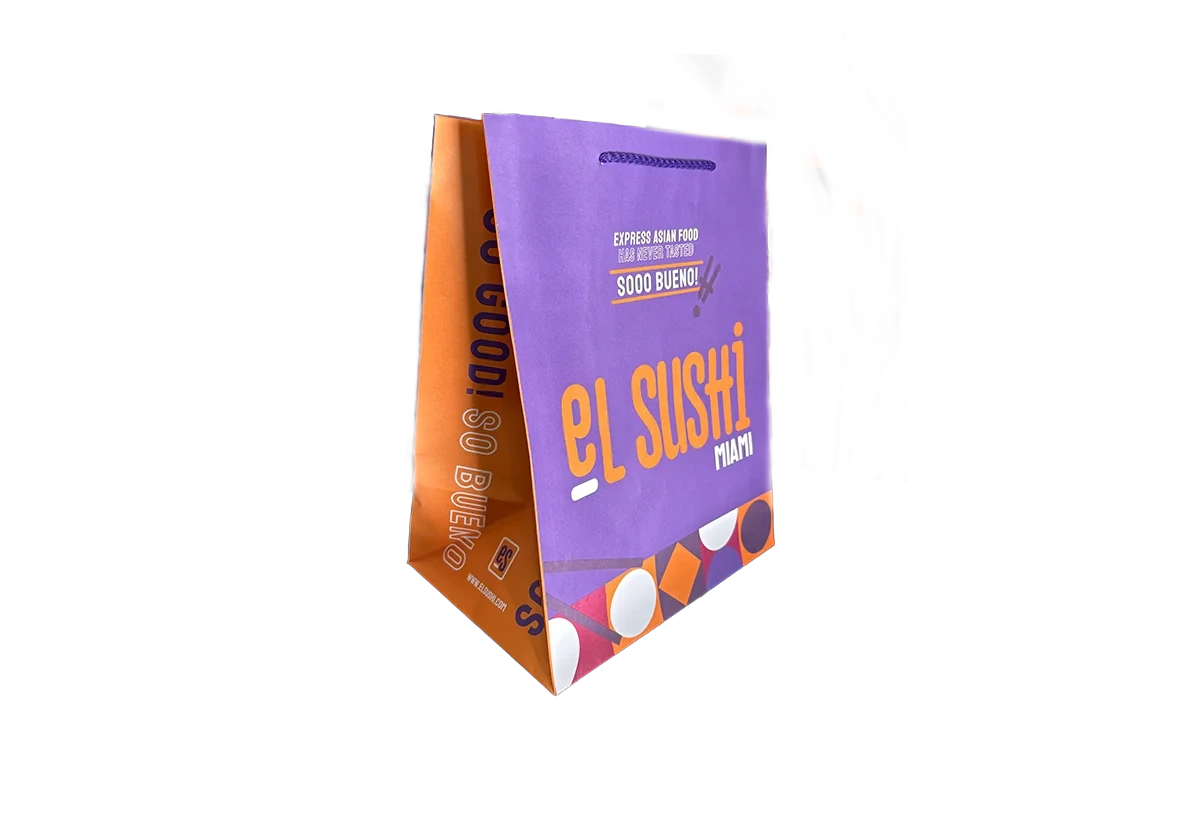
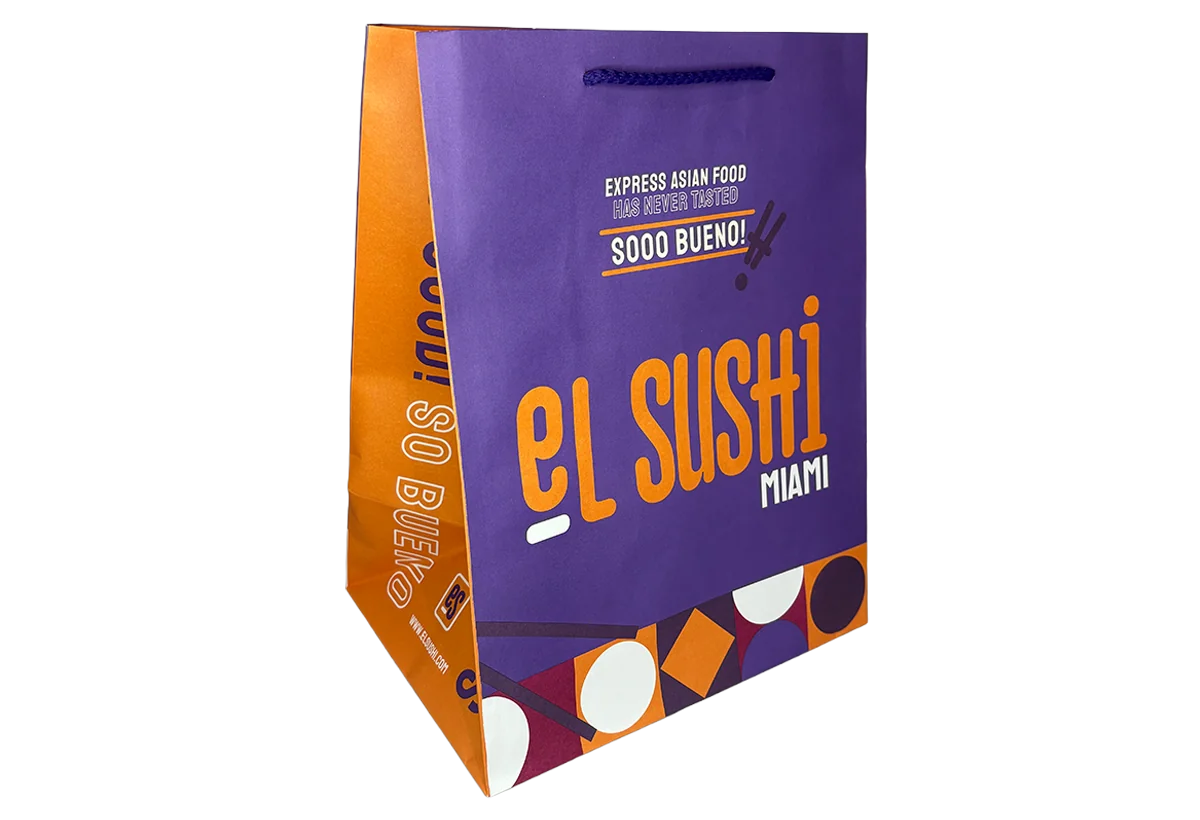
catalog update

diff --git a/src/data/dictionary.ts b/src/data/dictionary.ts
@@ -1171,7 +1171,12 @@ export const CATEGORIES: Category[] = [
           en: "Precision packaging for products that demand perfection.",
           es: "Empaque de precisión para productos que exigen perfección.",
         },
-        image: ["/images/catalog-images/folding-boxes/folding-box-s.webp"],
+        image: [
+          "/images/catalog-images/folding-boxes/folding-box-s.webp",
+          "/images/catalog-images/folding-boxes/folding-box-s-2.webp",
+          "/images/catalog-images/folding-boxes/folding-box-s-3.webp",
+          "/images/catalog-images/folding-boxes/folding-box-s-4.webp",
+        ],
         details: {
           longDescription: {
             en: "Engineered for the products where every millimeter matters. High-resolution printing brings your brand to life on packaging designed for cosmetics, tech accessories, and specialty retail items that deserve packaging as exceptional as what's inside.",
@@ -1192,7 +1197,12 @@ export const CATEGORIES: Category[] = [
           en: "The retail champion—built for everyday excellence.",
           es: "El campeón del retail—hecha para excelencia cotidiana.",
         },
-        image: ["/images/catalog-images/folding-boxes/folding-box-m.webp"],
+        image: [
+          "/images/catalog-images/folding-boxes/folding-box-m.webp",
+          "/images/catalog-images/folding-boxes/folding-box-m-2.webp",
+          "/images/catalog-images/folding-boxes/folding-box-m-3.webp",
+          "/images/catalog-images/folding-boxes/folding-box-m-4.webp",
+        ],
         details: {
           longDescription: {
             en: "Strike the perfect balance between protection and presentation. This format dominates shelves across consumer goods, combining structural integrity with premium finishes that make customers reach for your product first.",
@@ -1217,7 +1227,12 @@ export const CATEGORIES: Category[] = [
           en: "Powerful protection meets commanding shelf presence.",
           es: "Protección poderosa con presencia dominante en estantería.",
         },
-        image: ["/images/catalog-images/folding-boxes/folding-box-l.webp"],
+        image: [
+          "/images/catalog-images/folding-boxes/folding-box-l.webp",
+          "/images/catalog-images/folding-boxes/folding-box-l-2.webp",
+          "/images/catalog-images/folding-boxes/folding-box-l-3.webp",
+          "/images/catalog-images/folding-boxes/folding-box-l-4.webp",
+        ],
         details: {
           longDescription: {
             en: "When your product carries weight, your packaging should too. Reinforced construction handles heavier loads while premium printing ensures your brand dominates every inch of shelf space—because bigger products deserve bigger impact.",
@@ -1293,7 +1308,11 @@ export const CATEGORIES: Category[] = [
           en: "Designed for freshness and presentation, our sushi bags keep your culinary creations at their best while showcasing your brand with style.",
           es: "Diseñadas para la frescura y presentación, nuestras bolsas de sushi mantienen tus creaciones culinarias en su mejor estado mientras muestran tu marca con estilo.",
         },
-        image: ["/images/catalog-images/sushi-line/sushi-line-bags.webp"],
+        image: [
+          "/images/catalog-images/sushi-line/sushi-line-bags.webp",
+          "/images/catalog-images/sushi-line/sushi-line-bags-2.webp",
+          "/images/catalog-images/sushi-line/sushi-line-bags-3.webp",
+        ],
         details: {
           longDescription: {
             en: "Our sushi bags are crafted with food-grade materials that provide excellent moisture resistance and durability, ensuring your sushi stays fresh and intact during transport. With customizable printing options, you can create a unique brand experience that resonates with your customers and elevates your sushi offerings.",
@@ -1320,7 +1339,11 @@ export const CATEGORIES: Category[] = [
           en: "Our sushi boxes are designed to keep your culinary creations fresh and visually appealing, with customizable options to showcase your brand's unique style.",
           es: "Nuestras cajas de sushi están diseñadas para mantener tus creaciones culinarias frescas y visualmente atractivas, con opciones personalizables para mostrar el estilo único de tu marca.",
         },
-        image: ["/images/catalog-images/sushi-line/sushi-line-boxes.webp"],
+        image: [
+          "/images/catalog-images/sushi-line/sushi-line-boxes.webp",
+          "/images/catalog-images/sushi-line/sushi-line-boxes-2.webp",
+          "/images/catalog-images/sushi-line/sushi-line-boxes-3.webp",
+        ],
         details: {
           longDescription: {
             en: "Crafted with food-grade materials, our sushi boxes provide excellent moisture resistance and durability, ensuring your sushi stays fresh and intact during transport. With customizable printing options, you can create a unique brand experience that resonates with your customers and elevates your sushi offerings.",
@@ -1350,7 +1373,10 @@ export const CATEGORIES: Category[] = [
           en: "Tailored packaging solutions for sushi and Japanese cuisine, designed to meet your specific needs and elevate your brand's presentation.",
           es: "Soluciones de empaque personalizadas para sushi y cocina japonesa, diseñadas para satisfacer tus necesidades específicas y elevar la presentación de tu marca.",
         },
-        image: ["/images/catalog-images/sushi-line/sushi-custom.webp"],
+        image: [
+          "/images/catalog-images/sushi-line/sushi-line-c.webp",
+          "/images/catalog-images/sushi-line/sushi-line-c-2.webp",
+        ],
         details: {
           longDescription: {
             en: "Our custom sushi packaging solutions are designed to meet your specific needs, whether you're looking for unique shapes, sizes, or finishes. We work closely with you to create packaging that not only keeps your sushi fresh and secure but also enhances your brand's presentation and resonates with your customers.",
@@ -1387,19 +1413,22 @@ export const CATEGORIES: Category[] = [
     id: "paper-cups",
     title: { en: "Paper Cups", es: "Vasos de Papel" },
     description: {
-      en: "High-quality paper cup solutions for hot and cold beverages.",
-      es: "Soluciones de vasos de papel de alta calidad para bebidas frías y calientes.",
+      en: "Disposable paper cups designed for serving hot and cold beverages in cafes, restaurants, events, and takeout services.",
+      es: "Vasos de papel desechables diseñados para servir bebidas frías y calientes en cafeterías, restaurantes, eventos y servicios para llevar.",
     },
     image: "/images/catalog-images/paper-cups/paper-cups-cover.webp",
     subcategories: [
       {
-        id: "paper-cup-small",
-        title: { en: "Small Paper Cups", es: "Vasos de Papel Pequeños" },
+        id: "paper-cup-espresso",
+        title: { en: "Espresso Paper Cup", es: "Vasos de Papel para Espresso" },
         description: {
-          en: "Compact and practical small paper cups, ideal for espresso, samples, and small servings.",
-          es: "Vasos de papel pequeños, compactos y prácticos, ideales para espresso, muestras y porciones pequeñas.",
+          en: "Small paper cups designed for espresso shots, tastings, and small servings.",
+          es: "Vasos de papel pequeños diseñados para shots de espresso, degustaciones y porciones pequeñas.",
         },
-        image: ["/images/catalog-images/paper-cups/paper-cups-small.webp"],
+        image: [
+          "/images/catalog-images/paper-cups/espresso-cup.webp",
+          "/images/catalog-images/paper-cups/espresso-cup-2.webp",
+        ],
         details: {
           longDescription: {
             en: "Our small paper cups are crafted with food-grade materials, offering excellent insulation and leak resistance. Perfect for coffee shops, events, and sampling stations, they can be fully customized with your brand's artwork to create a memorable customer experience.",
@@ -1420,13 +1449,16 @@ export const CATEGORIES: Category[] = [
         },
       },
       {
-        id: "paper-cup-medium",
-        title: { en: "Medium Paper Cups", es: "Vasos de Papel Medianos" },
+        id: "paper-cup-coffee-cup",
+        title: { en: "Coffee Paper Cup", es: "Vasos Para Cafe" },
         description: {
-          en: "Versatile medium paper cups suitable for coffee, tea, soft drinks, and everyday beverages.",
-          es: "Vasos de papel medianos versátiles, adecuados para café, té, refrescos y bebidas del día a día.",
+          en: "Medium paper cups made for coffee and everyday hot beverages like tea and cacao.",
+          es: "Vasos de papel medianos hechos para café y bebidas calientes diarias como té y cacao.",
         },
-        image: ["/images/catalog-images/paper-cups/paper-cups-medium.webp"],
+        image: [
+          "/images/catalog-images/paper-cups/coffee-cup.webp",
+          "/images/catalog-images/paper-cups/coffee-cup-2.webp",
+        ],
         details: {
           longDescription: {
             en: "Designed for everyday use, our medium paper cups balance capacity and portability. Made with food-grade PE-coated paper, they maintain temperature effectively for both hot and cold drinks. Customizable printing ensures your brand stands out at every sip.",
@@ -1447,13 +1479,16 @@ export const CATEGORIES: Category[] = [
         },
       },
       {
-        id: "paper-cup-large",
-        title: { en: "Large Paper Cups", es: "Vasos de Papel Grandes" },
+        id: "paper-cup-22oz-soda",
+        title: { en: "Soda Paper Cups", es: "Vasos de Papel Para Soda" },
         description: {
-          en: "Generous large paper cups perfect for smoothies, large coffees, fountain drinks, and more.",
-          es: "Amplios vasos de papel grandes, perfectos para smoothies, cafés grandes, refrescos y más.",
+          en: "Large paper cups ideal for soda, fountain drinks, and other cold beverages.",
+          es: "Vasos de papel grandes ideales para soda, bebidas de fuente y otras bebidas frías.",
         },
-        image: ["/images/catalog-images/paper-cups/paper-cups-large.webp"],
+        image: [
+          "/images/catalog-images/paper-cups/soda-cup.webp",
+          "/images/catalog-images/paper-cups/soda-cup-2.webp",
+        ],
         details: {
           longDescription: {
             en: "Our large paper cups are built for high-volume beverage service, offering superior structural integrity and insulation. Ideal for restaurants, stadiums, and fast-food chains, they are available with double-wall options for extra heat retention and full custom branding.",
@@ -1474,13 +1509,17 @@ export const CATEGORIES: Category[] = [
         },
       },
       {
-        id: "paper-cup-custom",
-        title: { en: "Custom Paper Cups", es: "Vasos de Papel Personalizados" },
+        id: "ice-cream-cup",
+        title: { en: "Ice Cream Paper Cup", es: "Vasos de Papel para Helados" },
         description: {
-          en: "Fully tailored paper cup solutions designed to match your brand's exact specifications and vision.",
-          es: "Soluciones de vasos de papel completamente personalizadas, diseñadas para coincidir con las especificaciones exactas y la visión de tu marca.",
+          en: "Paper cups made for ice cream, frozen desserts, and cold food servings.",
+          es: "Vasos de papel hechos para helados, postres congelados y porciones de alimentos fríos.",
         },
-        image: ["/images/catalog-images/paper-cups/paper-cups-custom.webp"],
+        image: [
+          "/images/catalog-images/paper-cups/ice-cream-cup.webp",
+          "/images/catalog-images/paper-cups/ice-cream-cup-2.webp",
+          "/images/catalog-images/paper-cups/ice-cream-cup-3.webp",
+        ],
         details: {
           longDescription: {
             en: "Our custom paper cups are designed from the ground up to meet your unique requirements. From custom sizes and capacities to specialty coatings and finishes, we collaborate with you to produce cups that perfectly represent your brand while maintaining the highest food-safety standards.",
@@ -1513,7 +1552,6 @@ export const CATEGORIES: Category[] = [
       },
     ],
   },
-
   {
     id: "food-containers",
     title: { en: "Food Containers", es: "Contenedores de Comida" },
